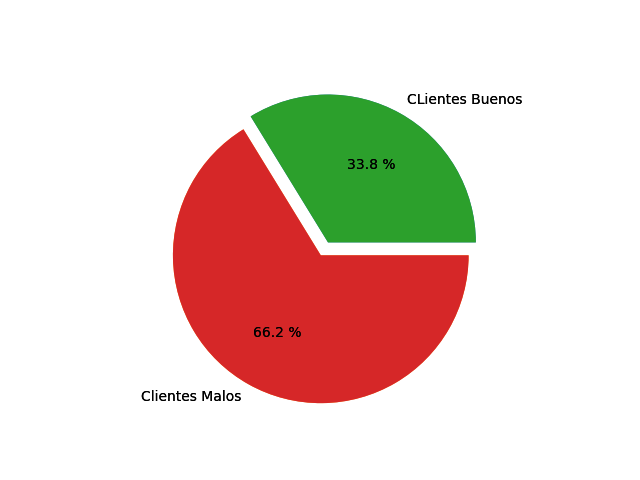
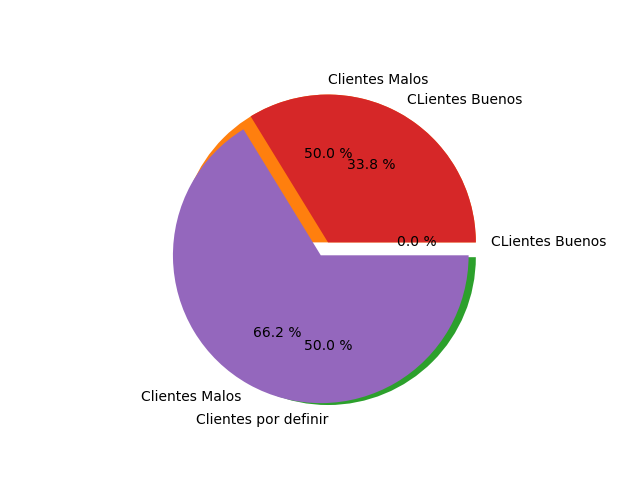
falta el cambio de imagen

Changed region(s): [[0.2188, 0.1562, 0.8125, 0.9062], [0.7812, 0.4688, 0.9375, 0.5312]]

diff --git a/apiAnalisis/modeloAnalisis.py b/apiAnalisis/modeloAnalisis.py
@@ -42,9 +42,9 @@ class modeloAnalisis():
     def getPastel(self, buenos, malos, definir):
         manzanas = [buenos, malos, definir]
         nombres = ["CLientes Buenos", "Clientes Malos", "Clientes por definir"]
-        desfase = (0, 0.1, 0)
+        desfase = (0, 0, 0.1)
         plt.pie(manzanas, labels=nombres, autopct="%0.1f %%", explode=desfase)
-        plt.savefig("apiAnalisis/pastel.png")
+        plt.savefig("apiAnalisis/pastel2.png")
         print('Guardando.... Pastel')
 
     def getImg(self):

diff --git a/app.py b/app.py
@@ -58,7 +58,7 @@ def getPaste():
     malos = request.args.get('malos')
     definir = request.args.get('definir')
     modeloAnalisis.getPastel(modeloAnalisis, int(buenos), int(malos), int(definir))
-    return send_file("apiAnalisis/pastel.png", mimetype='image/png')
+    return send_file("apiAnalisis/pastel2.png", mimetype='image/png')
 
 
 if __name__ == '__main__':
